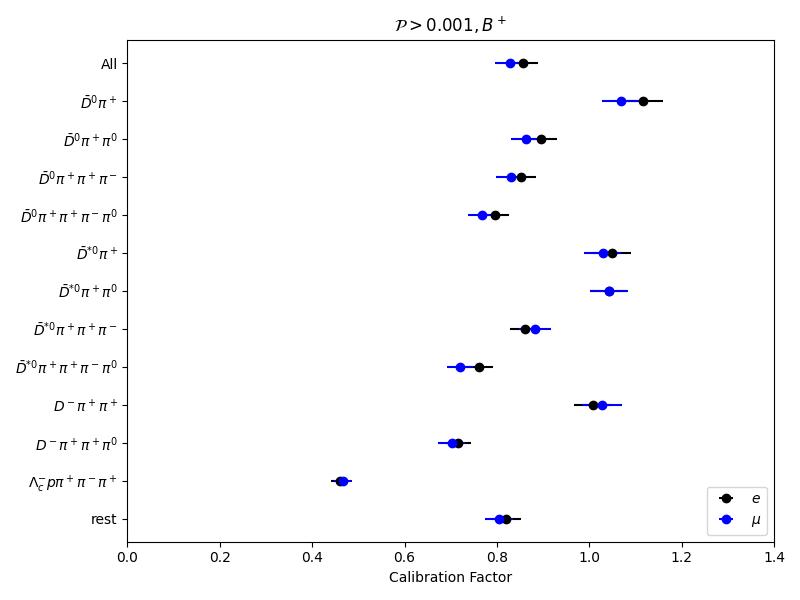
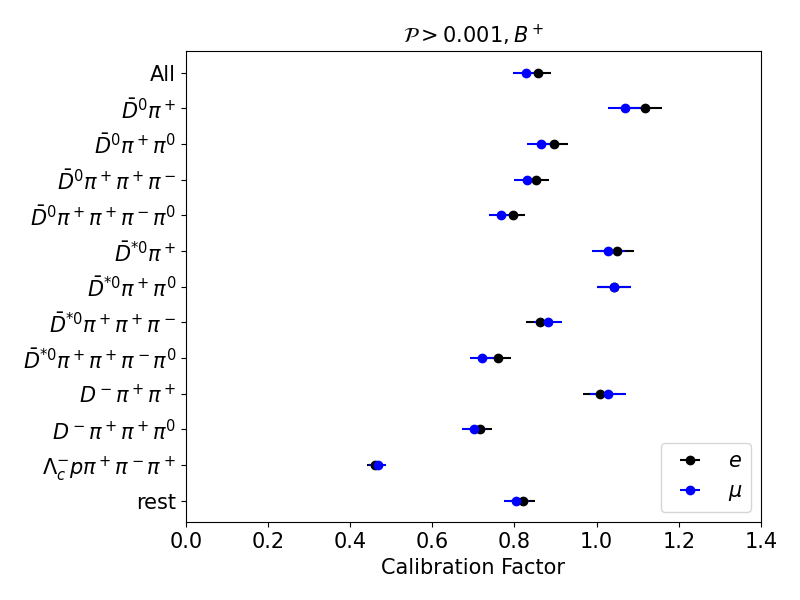
change plot size

diff --git a/scripts/steering_scripts_PhD_thesis/plot_eff30cor.py b/scripts/steering_scripts_PhD_thesis/plot_eff30cor.py
@@ -91,7 +91,7 @@ def main():
             f"$\\pm${row.data_MC_ratio_err:.2f}"
         )
 
-    fig, ax = plt.subplots(figsize=(12.0, 6.0), dpi=120)
+    fig, ax = plt.subplots(figsize=(11.0, 6.0), dpi=120)
 
     sns.heatmap(
         ratio_array,
@@ -116,9 +116,9 @@ def main():
     ax.tick_params(axis="both", labelsize=15)
     ax.collections[0].colorbar.ax.tick_params(labelsize=15)
 
-    ax.set_xlabel(r"$\cos\theta$ bins", fontsize=14)
-    ax.set_ylabel(r"$p$ bins", fontsize=14)
-    ax.set_title(r"$\pi^{0}$ Efficiency Data/MC Ratio")
+    ax.set_xlabel(r"$\cos\theta$ bins", fontsize=15)
+    ax.set_ylabel(r"$p$ bins", fontsize=15)
+    ax.set_title(r"$\pi^{0}$ Efficiency Data/MC Ratio", fontsize=15)
 
     fig.tight_layout()
     fig.savefig(output_path, bbox_inches="tight")

diff --git a/src/python/draw_FEI_cal.py b/src/python/draw_FEI_cal.py
@@ -1,6 +1,15 @@
 import matplotlib.pyplot as plt
 import numpy as np
 
+plt.rcParams.update({
+    "font.size": 15,
+    "axes.titlesize": 15,
+    "axes.labelsize": 15,
+    "xtick.labelsize": 15,
+    "ytick.labelsize": 15,
+    "legend.fontsize": 15,
+})
+
 # ========================= for B plus ========================= 
 labels = [
     r"All", r"$\bar{D}^0\pi^+$", r"$\bar{D}^0\pi^+\pi^0$", 
